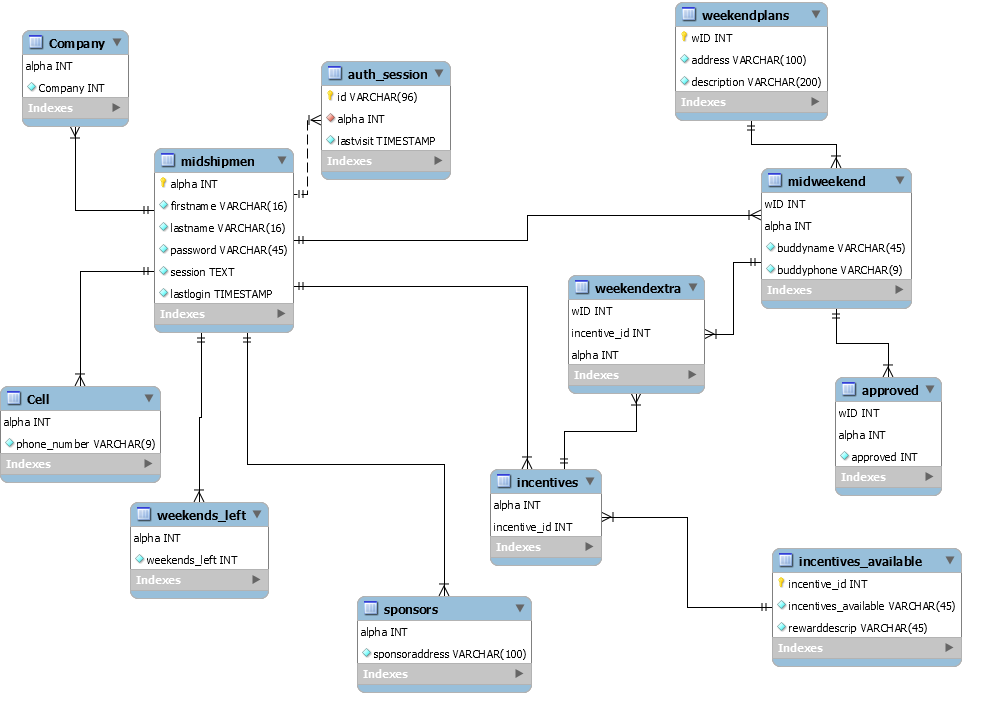
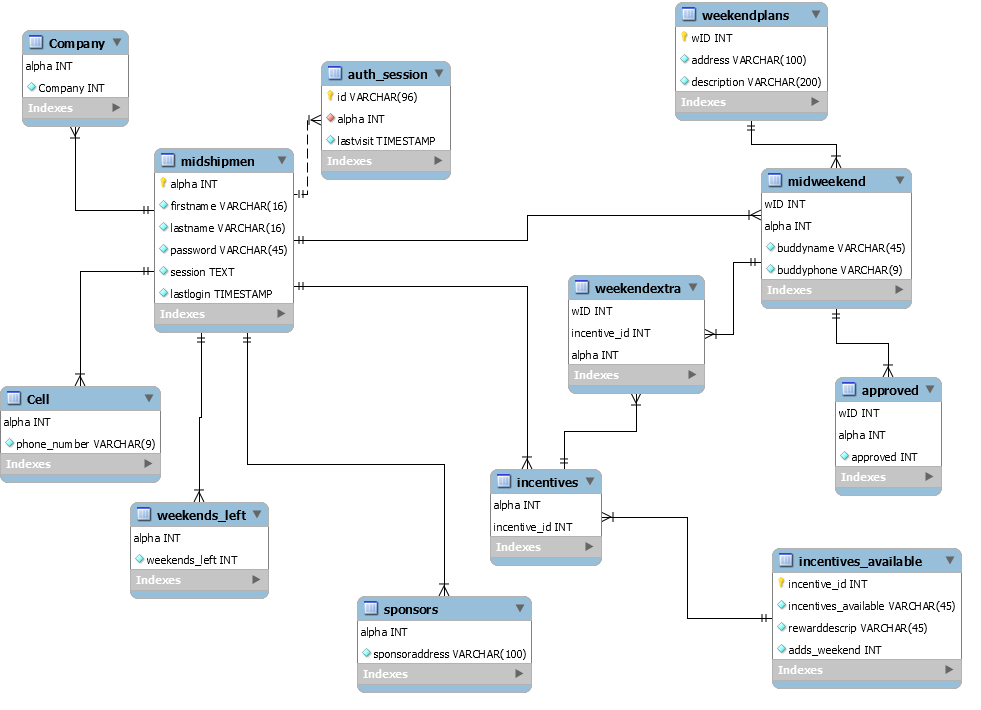
changes needed to support adding weekends based on incentives

Changed region(s): [[0.7645, 0.8986, 0.9786, 0.9915]]

diff --git a/create_incentive.php b/create_incentive.php
@@ -34,6 +34,14 @@
           <label for="exampleFormControlInput1">Reward </label>
           <input type="reward" class="form-control" name="reward" placeholder="What does this incentive give someone?">
         </div>
+        <div class="form-group">
+          <label for="exampleFormControlSelect1">If applicable, how many weekends does this incentive give a midshipman? (Choose 0 if not applicable) </label>
+          <select type="rtype" class="form-control" name="weekend">
+            <option>0</option>
+            <option>1</option>
+            <option>2</option>
+          </select>
+        </div>
         <button type="submit" class="btn btn-primary">Submit</button>
         </form>
         </div>
@@ -60,12 +68,13 @@ $alpha=$_POST["alpha"];
 $name=$_POST["name"];
 $reward=$_POST["reward"];
 $id=$_POST["id"];
+$weekend=$_POST["weekend"];
 
-if($name!='' && $reward !=''){
-    $query = "INSERT INTO incentives_available(incentives_available,rewarddescrip) VALUES (?,?)";
+if($name!='' && $reward !='' && $weekend !=''){
+    $query = "INSERT INTO incentives_available(incentives_available,rewarddescrip,adds_weekend) VALUES (?,?,?)";
     $stmt = $db->stmt_init();
     $stmt->prepare($query);
-    $stmt->bind_param('ss', $name, $reward);
+    $stmt->bind_param('ssi', $name, $reward,$weekend);
     #$page->content .= $stmt;
     $success = $stmt->execute();
     if (!$success || $db->affected_rows == 0) {
@@ -91,7 +100,7 @@ if ($alpha!='' && $id!='') {
     $page->content .= '<h2> Your midshipmen was awarded the incentive! </h2></div></div>';
   }
 }
-$query = "SELECT *
+$query = "SELECT incentive_id,incentives_available,rewarddescrip,adds_weekend
             FROM incentives_available";
   $stmt = $db->stmt_init();
   $stmt->prepare($query);
@@ -99,11 +108,11 @@ $query = "SELECT *
   if (!$success || $db->affected_rows == 0) {
   $page->content .= "<h5>ERROR: " . $db->error . " for query *$query*</h5><hr>";
   }
-  $page->content .= "</div><h2> Current Incentives </h2><div class=\"row content\">  <div class=\"col-sm-8 text-left\"> <table class=\"table table-striped table-bordered table-hover\"><thead><tr><th> IncentiveID </th><th> Name </th><th> Reward </th></tr></thead><tbody>";
+  $page->content .= "</div><h2> Current Incentives </h2><div class=\"row content\">  <div class=\"col-sm-8 text-left\"> <table class=\"table table-striped table-bordered table-hover\"><thead><tr><th> IncentiveID </th><th> Name </th><th> Reward </th><th> How many weekends does it add? </th></tr></thead><tbody>";
 
-  $stmt->bind_result($incentive_ID, $Name, $Descrip);
+  $stmt->bind_result($incentive_ID, $Name, $Descrip,$extra);
   while ($row = $stmt->fetch()) {
-    $page->content .= "<tr><td>$incentive_ID</td><td>$Name</td><td>$Descrip</td></tr>";
+    $page->content .= "<tr><td>$incentive_ID</td><td>$Name</td><td>$Descrip</td><td>$extra</td></tr>";
   }
 
   $page->content .= "</tbody></table></div></div></div></div>";
